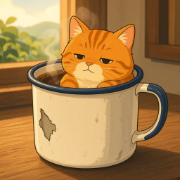
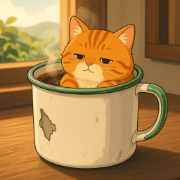
接凱文高腳椅與新 App 圖示；記錄作者決定：杯子白底綠邊、短名稱夢想咖啡店

Changed region(s): [[0.1389, 0.3333, 0.8056, 0.5278], [0.8056, 0.4444, 0.9444, 0.7778], [0.3056, 0.3333, 0.3611, 0.3611]]

diff --git a/src/art.js b/src/art.js
@@ -48,6 +48,10 @@ const ART_SPEC = {
   char_deshu_stand: { h: 1.67 }, char_deshu_brew: { h: 1.67 }, char_deshu_serve: { h: 1.67, cup: [-0.14, 1.03] },
   char_deshu_smile: { h: 1.67 }, char_deshu_thermo: { h: 1.67 }, char_deshu_sit: { h: 1.3 },
   char_kevin_stand: { h: 1.61 }, char_kevin_bar: { h: 1.61 }, char_kevin_sit: { h: 1.28, ax: 0.78, hip: 0.6 },
+  // 美術評分修正 d2：凱文坐在吧台高腳椅上（圖裡自己畫了高腳椅，和 stool.webp 同視角）。底邊是最前面那支椅腳，
+  // 椅面中心（臀部壓著的地方，原圖約 x 670、y 1105）到地面照 stool.webp 的 0.66 公尺，換算整張畫到的高度約 1.41 公尺；
+  // ax 對到椅面中心，紙片原點就是高腳椅的位置（和原本在他底下畫一張高腳椅時一樣）
+  char_kevin_barstool: { h: 1.41, ax: 0.654 },
   char_yuan_sit: { h: 1.22, ax: 0.8, hip: 0.63 }, char_yuan_stand: { h: 1.56 },
   char_zhe_stand: { h: 1.62 }, char_zhe_wet: { h: 1.62 },
   char_grandpa_stand: { h: 1.5 }, char_grandpa_sit: { h: 1.2 },
@@ -667,11 +671,11 @@ function drawDeshu(pose) {
   return c;
 }
 
-// 那個舊的琺瑯杯：白底、深藍杯緣，有一點掉漆（x, y 是杯子左上角）
+// 那個舊的琺瑯杯：白底、綠杯緣（Q59：和 prop_cup 一樣白杯綠邊），有一點掉漆（x, y 是杯子左上角）
 function enamelCup(g, x, y) {
   rr(g, x, y, 0.13, 0.12, 0.02); g.fillStyle = '#f4f2ec'; g.fill(); outline(g, 0.012);
-  g.fillStyle = '#23406e'; g.fillRect(x + 0.005, y, 0.12, 0.018);
-  g.beginPath(); g.arc(x + 0.135, y + 0.06, 0.03, -1.3, 1.3); g.strokeStyle = '#23406e'; g.lineWidth = 0.014; g.stroke();
+  g.fillStyle = '#3d6b4f'; g.fillRect(x + 0.005, y, 0.12, 0.018);
+  g.beginPath(); g.arc(x + 0.135, y + 0.06, 0.03, -1.3, 1.3); g.strokeStyle = '#3d6b4f'; g.lineWidth = 0.014; g.stroke();
   g.fillStyle = '#4a4440'; ell(g, x + 0.03, y + 0.09, 0.008, 0.006); g.fill(); // 掉漆的一小塊
 }
 
@@ -1424,9 +1428,11 @@ function drawZhe(pose) {
 // 'shirt'（來面試那天，穿著一件燙過的襯衫，站著）、'apron'（當了店長，繫著圍裙，站著）
 // 手繪圖：sit（坐著開筆電、戴耳機；闔上筆電那一下也用它）、stand（走路、面試那天；沒帶筆電的日子 free 與躲到角落 hide
 // 也用站著的，因為坐著的圖一定開著筆電，和「以後都不用開會了」對不上）、bar（繫圍裙：當了店長）。
-// seat 是 main.js 依他在哪裡決定的（'stool' 吧台的高腳椅、其他 'chair'）：坐著的畫在他底下；free 在吧台時，高腳椅畫在他旁邊
+// seat 是 main.js 依他在哪裡決定的（'stool' 吧台的高腳椅、其他 'chair'）：坐著的畫在他底下；free 在吧台時，高腳椅畫在他旁邊。
+// 美術評分修正 d2：坐在吧台高腳椅上有自己的圖（char_kevin_barstool，高腳椅畫在圖裡）；沒有載到就照舊在坐姿底下畫一張
 export function kevin(pose = 'sit', seat = 'chair') {
   const name = pose === 'sit' || pose === 'closed' ? 'sit' : pose === 'apron' ? 'bar' : 'stand';
+  if (name === 'sit' && seat === 'stool') { const b = art('char_kevin_barstool'); if (b) return b; }
   return art(`char_kevin_${name}`, name === 'sit' || pose === 'free' ? seat : null) || drawKevin(pose);
 }
 function drawKevin(pose) {

diff --git a/src/main.js b/src/main.js
@@ -433,8 +433,8 @@ const M = {
   grounds: new THREE.MeshLambertMaterial({ color: '#6b4428' }),
   water: new THREE.MeshBasicMaterial({ color: '#d9eef5', transparent: true, opacity: 0.7 }),
   longan: new THREE.MeshLambertMaterial({ color: '#7a4120' }),
-  enamel: new THREE.MeshLambertMaterial({ color: '#f4f2ec' }), // 那個舊的琺瑯杯：白底、深藍杯緣
-  navy: new THREE.MeshLambertMaterial({ color: '#23406e' }),
+  enamel: new THREE.MeshLambertMaterial({ color: '#f4f2ec' }), // 那個舊的琺瑯杯：白底、綠杯緣（Q59：統一成 prop_cup 的白杯綠邊）
+  enamelRim: new THREE.MeshLambertMaterial({ color: '#3d6b4f' }),
 };
 const cyl = (rt, rb, h, mat, seg = 24, open = false) => new THREE.Mesh(new THREE.CylinderGeometry(rt, rb, h, seg, 1, open), mat);
 
@@ -468,7 +468,7 @@ const CUP_H = 0.07 * CUP_SCALE;
 // kind：'hot'（手沖）、'cocoa'（德叔給予安的熱可可）、'iced'（凱文的冰美式）、'enamel'（最後一晚，德叔用那個琺瑯杯）；
 // dish：旁邊放一小碟窯烤龍眼乾
 // 美術評分修正 d：熱的杯子（手沖、熱可可、最後一晚的琺瑯杯）都用手繪的 prop_cup（白底綠邊、裝著咖啡），一直面向鏡頭；
-// 沒有載到時用 A.cup() 的 Canvas 杯子（最後一晚的琺瑯杯照舊是立體的藍邊杯，和平常的杯子分得出來）。凱文的冰美式照舊是立體的玻璃杯
+// 沒有載到時用 A.cup() 的 Canvas 杯子（最後一晚的琺瑯杯照舊是立體的杯子，和平常的杯子分得出來；杯緣和 prop_cup 一樣是綠的，Q59）。凱文的冰美式照舊是立體的玻璃杯
 const cupImg = A.cup();
 const cupArt = A.artLoaded('prop_cup');
 const cupMat = new THREE.SpriteMaterial({ map: A.tex(cupImg), alphaTest: 0.35, color: '#f2ece4' }); // 每個杯子共用；不受光照，夜裡由 applyLight() 調暗
@@ -492,8 +492,8 @@ function makeCup(kind = 'hot', dish = false) {
   }
   if (kind === 'enamel') {
     const body = cyl(0.04, 0.04, 0.075, M.enamel); body.position.y = 0.0375;
-    const rim = cyl(0.0415, 0.0415, 0.01, M.navy, 24, true); rim.position.y = 0.072;
-    const handle = new THREE.Mesh(new THREE.TorusGeometry(0.02, 0.005, 8, 16), M.navy);
+    const rim = cyl(0.0415, 0.0415, 0.01, M.enamelRim, 24, true); rim.position.y = 0.072;
+    const handle = new THREE.Mesh(new THREE.TorusGeometry(0.02, 0.005, 8, 16), M.enamelRim);
     handle.position.set(0.05, 0.04, 0);
     const liquid = cyl(0.037, 0.037, 0.004, M.coffee); liquid.position.y = 0.07; liquid.visible = false;
     g.add(body, rim, handle, liquid);

diff --git a/index.html b/index.html
@@ -9,7 +9,7 @@
 <link rel="apple-touch-icon" sizes="180x180" href="assets/art/app_icon_180.png">
 <meta name="apple-mobile-web-app-capable" content="yes">
 <meta name="mobile-web-app-capable" content="yes">
-<!-- 【待定】App 短名稱「夢想咖啡店」（manifest.webmanifest 的 short_name 也是）是自行補寫的，見計畫檔 Q62 -->
+<!-- App 短名稱「夢想咖啡店」（manifest.webmanifest 的 short_name 也是）：作者已確認（2026-11-02，計畫檔 Q62） -->
 <meta name="apple-mobile-web-app-title" content="夢想咖啡店">
 <link rel="apple-touch-startup-image" media="(device-width: 390px) and (device-height: 844px) and (-webkit-device-pixel-ratio: 3) and (orientation: portrait)" href="assets/art/splash_1170x2532.webp">
 <title>我單方面辭退老闆後，開了一間夢想中的咖啡店｜試玩版</title>

diff --git a/AGENTS.md b/AGENTS.md
@@ -36,7 +36,7 @@
 - `index.html`：介面與 importmap，不需要建置步驟。
 - `src/main.js`：場景、座位、德叔的沖煮動畫、貓、佈置（倉庫、型錄、試擺）、溫度任務的演出、記事本、觸控；開場推門進店後的段落（第三幕後半、第四幕第一杯）、營業日誌與老先生的信的畫面、讀信後擦琺瑯杯的鏡頭；三位熟客在店裡的一天（誰什麼時候走進來、照 `story.js` 的步驟演出里程碑、畫面下方的選項）、店裡的天氣（雨天、颱風夜）與 WebAudio 合成的風雨聲；龍眼（睡在 `cat.js` 決定的地方、跳上老闆剛坐過的椅子、被點太多次就走開）、打烊後模式（客人離開、最後一杯、一盞一盞關燈、咖啡日記、德叔擦琺瑯杯）、一次客人模式（推門、點單、聽熟客聊天）；第一站的結尾（照 `farewell.js` 的步驟演出徵店長與告別、門口的徵才啟事、交鑰匙、最後一晚的琺瑯杯、離開東山的早上與第二封信、你的咖啡地圖），以及之後的常態店（吧台後面換成凱文，從門口推門進來）；階段 7 的打磨：紙片俯瞰時往後仰、人物繞開擺飾、夜裡吧台補光、下班後的夜裡光線、保底雨天、手機鍵盤、自動降解析度，以及把 `audio.js` 接到每個動作（沖煮各段、門鈴、關燈、颱風的雷）。美術評分修正 a：泡泡與座位標籤的版面（`layoutOverlays()`：避開量出來的頂部介面、彼此不重疊）、俯瞰鏡頭依可用高度縮放（`fitOverview()`）、對話時鏡頭轉向說話的人並推近加暗角、前景擋臉的人淡掉（`lookToward()`／`updateOcclusion()`）。美術評分修正 b：彈窗打開時 `#app.modal` 收起場景上的標籤與按鈕列、選項上面的問句（`#ask`）與漸層（`#shade`）、溫度膠囊的顏色（`tempColor()`）、桌機兩側的模糊店內畫面（`paintBackdrop()`）、對話等鏡頭到位才說（`camSettled()`）。美術評分修正 c：座位各自的鏡頭與視角（`SEATS[].fov`）、坐下時桌上的暖光（`seatLamp`）、俯瞰把德叔／吧台／擺飾外框＋24px 放進畫面並左右置中（`FIT_BAR`、`drawnHalf()`）、俯瞰泡泡避開吧台（`barHull()`）、對話依距離推近（`focusFov`）與前景較大的人淡出、桌機字級（`index.html` 的 `@media (min-aspect-ratio: 3/5)`）。art2b：桌機的場景欄加寬到高度的 2/3、俯瞰仰角最低到 44°（`OVER_DESK_MIN`，挑德叔最高的角度）；吧台前的人，德叔在吧台裡錯開到兩人畫出來不重疊的位置（`behindBarZ()`）；對話時前景的擺飾與椅子也會淡出（`occProps()`／`screenRect()`）。美術評分修正 d：坐窗邊座時龍眼睡到窗台上（`catToSill()`）；德叔的沖煮圖已經拿著手沖器具，有這張圖時吧台上的立體器具收起來、沖煮步驟改成德叔的小動作（`brewInArt()`，凱文顧店與沒有圖時照舊用 `brewWithKit()`），看德叔沖的鏡頭依有沒有沖煮圖分開（`closeView()`）；俯瞰時不靠牆的紙片轉到和畫面平行、剩下的高度往上拉長（`faceCamera()`，高度倍率另記在 `userData.squash`）；熱的杯子都用 `prop_cup`（`cupSprite()`）。
 - `src/opening.js`：開場第一～三幕的 DOM 畫面（16:49 的辦公室、標題、信箱與律師信、175 縣道），只在新存檔播放，每一幕可略過。
-- `src/art.js`：所有美術。接正式美術第一批起，人物（德叔、予安、阿哲、凱文、阿公）與龍眼改用 `assets/art/` 的手繪 webp：模組用 top-level await 先載入（`ART_SPEC` 記每張圖畫到的高度幾公尺、腳底／臀部在哪），裁切、手機縮成 1024 高、補邊色後當材質；任何一張載入失敗就退回原本的 Canvas 繪圖（`drawDeshu()` 等）。接正式美術第二批（art2a）起，店內空間也用手繪圖（`ROOM_SPEC`：每張代表幾公尺）：窗景六張＋窗框、地板／石灰牆／紅磚腰牆／天花板／木頭檯面／吧台正面的無縫材質（`main.js` 依公尺設定 repeat）、吧台後的層架（黑板的字由程式寫）、溫度計木框（玻璃管與水銀由程式畫）、吊燈、所有家具與小道具；透明的家具依透明度裁掉留白、照每公尺像素不拉伸、底邊接地，同樣載入失敗就退回 Canvas。坐姿的圖沒有椅子：手繪的椅子與高腳椅（和人物一樣 3/4）畫進予安與凱文的圖裡、椅面對準臀部（`seatUnder()`），予安坐著時店裡那張空椅子（`main.js` 的 `yuanChair`）收起來。接正式美術第二批（art2b）起，開場、地圖與介面也用手繪圖：這些圖不進 3D 場景，下載後先解碼確認、留下 object URL（`artUrl()`），`mailboxes()`／`countyRoad()`／`coffeeMap()` 回傳 DOM 元素（有圖是 `<img>` 或 SVG，路牌的 175、地圖的東山與舞鶴標記由程式疊上；沒有圖是 Canvas）；辭呈與律師信背景、信紙紋理、泡泡九宮格外框由 `main.js` 設成 CSS 變數（`--art-office`／`--art-paper`／`--art-bubble`，沒有設就是原本的 CSS）；`ui_icons.svg` 的四個 `<symbol>`（`iconSymbols()`）放進頁面給選單、快轉、溫度、開燈用，沒有載到就照舊是文字；老先生的信封（`envelope()`）是 `ROOM_SPEC` 的手繪圖。啟動畫面（`#splash`）與 `manifest.webmanifest` 的圖示在 `index.html`，縮好的 PNG 圖示用 `node tests/make-icons.mjs` 產生。人物與桌上小東西用較高的解析度（`HI`，每公尺 400～600 像素），每張圖記在 `c.ppm`，`main.js` 用 `A.ppmOf()` 把像素換回公尺（換成圖檔時沒有這個欄位就用預設的 200）。
+- `src/art.js`：所有美術。接正式美術第一批起，人物（德叔、予安、阿哲、凱文、阿公）與龍眼改用 `assets/art/` 的手繪 webp：模組用 top-level await 先載入（`ART_SPEC` 記每張圖畫到的高度幾公尺、腳底／臀部在哪），裁切、手機縮成 1024 高、補邊色後當材質；任何一張載入失敗就退回原本的 Canvas 繪圖（`drawDeshu()` 等）。接正式美術第二批（art2a）起，店內空間也用手繪圖（`ROOM_SPEC`：每張代表幾公尺）：窗景六張＋窗框、地板／石灰牆／紅磚腰牆／天花板／木頭檯面／吧台正面的無縫材質（`main.js` 依公尺設定 repeat）、吧台後的層架（黑板的字由程式寫）、溫度計木框（玻璃管與水銀由程式畫）、吊燈、所有家具與小道具；透明的家具依透明度裁掉留白、照每公尺像素不拉伸、底邊接地，同樣載入失敗就退回 Canvas。坐姿的圖沒有椅子：手繪的椅子與高腳椅（和人物一樣 3/4）畫進予安與凱文的圖裡、椅面對準臀部（`seatUnder()`），予安坐著時店裡那張空椅子（`main.js` 的 `yuanChair`）收起來。凱文坐在吧台高腳椅上另有一張連高腳椅一起畫的圖（`char_kevin_barstool`，美術評分修正 d 補充），沒有載到才用坐姿底下合成高腳椅。接正式美術第二批（art2b）起，開場、地圖與介面也用手繪圖：這些圖不進 3D 場景，下載後先解碼確認、留下 object URL（`artUrl()`），`mailboxes()`／`countyRoad()`／`coffeeMap()` 回傳 DOM 元素（有圖是 `<img>` 或 SVG，路牌的 175、地圖的東山與舞鶴標記由程式疊上；沒有圖是 Canvas）；辭呈與律師信背景、信紙紋理、泡泡九宮格外框由 `main.js` 設成 CSS 變數（`--art-office`／`--art-paper`／`--art-bubble`，沒有設就是原本的 CSS）；`ui_icons.svg` 的四個 `<symbol>`（`iconSymbols()`）放進頁面給選單、快轉、溫度、開燈用，沒有載到就照舊是文字；老先生的信封（`envelope()`）是 `ROOM_SPEC` 的手繪圖。啟動畫面（`#splash`）與 `manifest.webmanifest` 的圖示在 `index.html`，縮好的 PNG 圖示用 `node tests/make-icons.mjs` 產生。人物與桌上小東西用較高的解析度（`HI`，每公尺 400～600 像素），每張圖記在 `c.ppm`，`main.js` 用 `A.ppmOf()` 把像素換回公尺（換成圖檔時沒有這個欄位就用預設的 200）。
 - `src/audio.js`：所有聲音與音樂（WebAudio 即時合成，沒有音檔）：慵懶的電鋼琴背景音樂（打烊後換夜曲）、磨豆、注水、倒杯、杯子上桌、門鈴、關燈、窗外機車、雨與颱風；不依賴 Three.js 與 DOM，沒有 WebAudio 時全部是空動作。之後換正式音樂只要改這裡。
 - 純邏輯模組（不依賴 Three.js 與 DOM，用 `node --test` 測）：`src/save.js` 存檔（localStorage `dream-cafe.save`，帶版本號，存不了時照常遊戲）、`src/clock.js` 遊戲時間（開店第 N 天，本地日曆日）、`src/tasks.js` 劇本 20 個溫度任務（溫度由已完成任務算出）、`src/catalog.js` 德叔的型錄與結帳（基金餘額＝帳本加總）、`src/letters.js` 辭呈結尾、律師信、老先生的信與交信條件、`src/journal.js` 德叔的營業日誌（離線結算，每天 2～4 條，熟客里程碑由 `story(day)` 介面接入）、`src/weather.js` 依季節的天氣（與「在雨天坐窗邊」的保底雨天）、`src/story.js` 三位熟客的里程碑引擎（18 個里程碑的條件、日誌句、「想等老闆在」的提示、演出步驟與台詞、菜單；老闆不在的日子由 `settleThrough()` 結算，在場時由 `planToday()`／`liveNext()` 決定誰來、演什麼）、`src/cat.js` 龍眼（依擺飾決定睡覺的地方、日誌換位子的句子、給不給摸、跳不跳上椅子）、`src/afterhours.js` 打烊後與一次客人模式（台詞、打烊狀態與關燈、「今天的一杯」咖啡日記、客人模式的邀請條件與依擺飾挑的對話）、`src/farewell.js` 第一站的結尾（徵店長與告別七段的條件、台詞與演出步驟、三張徵才啟事、德叔叫名字的那句、離開東山的早上、咖啡地圖的文字、常態店裡凱文的台詞與日誌句）。
 - `vendor/three.module.min.js`：Three.js 0.187 打包檔。

diff --git a/docs/第一版開發計畫.md b/docs/第一版開發計畫.md
@@ -21,6 +21,7 @@
 - [x] 接正式美術第二批（art2a）：店內空間、家具與小道具（46 張；開場場景、地圖、UI 留給下一輪）（2026-11-02）
 - [x] 接正式美術第二批（art2b）：開場、地圖、介面（剩下的 10 個檔案＋縮好的圖示），修上一輪評分不通過的 3 張（桌機俯瞰、颱風夜、桌機客人對話）（2026-11-02）
 - [x] 美術評分修正 d：座位焦點（phone-4，唯一不通過）、沖煮器具不重複、俯瞰家具朝向、正式杯子、桌機俯瞰字級（2026-11-02）
+- [x] 美術評分修正 d 補充：記錄作者決定（Q59、Q62、凱文坐高腳椅、Q60 暫維持），接凱文坐吧台高腳椅的圖與重畫的 App 圖示（2026-11-02）
 
 ## 一、目前原型對照第一版範圍
 
@@ -492,6 +493,19 @@ Claude 美術評審在線上實測截圖與全流程截圖上評分（26 張中 
   - 工作中途（13:55）畫師的新圖放進了 `assets/art/`（`char_kevin_barstool.webp`、重畫的 `app_icon_1024.webp`）。我把 `app_icon_1024.webp` 誤當成被測試改壞的原圖，用 `git checkout` 還原成舊版，蓋掉了新圖（14:36 已經有人重新放回來）。這兩個檔案都沒有加進這一輪的 commit，留給下一輪接上。
   - 全流程的「06-first-cup-closeup」在 20 倍速下拍到的是德叔已經端走、鏡頭正在移回座位（沖煮約 1 秒，鏡頭移動是 1.2 秒實際時間，art2 那一張也一樣）；這一輪的特寫用自己的截圖確認（`d2-*-closeup-*`），沒有改全流程腳本。
 
+#### 作者決定（2026-11-02）
+
+作者回覆了修正 d 留下的幾個問題，並交了兩張新圖（13:55 放進 `assets/art/` 的那兩張）：
+
+- [x] 1. Q59：琺瑯杯統一成「白杯綠邊」，維持現在的 `prop_cup`。畫師把 `app_icon_1024.webp` 重畫成白杯綠邊，用 `node tests/make-icons.mjs` 重新產生 `app_icon_512.png`、`app_icon_192.png`、`app_icon_180.png`（原圖 webp 沒有動）。圖沒有載到時的退路也跟著統一：最後一晚的立體琺瑯杯（`main.js` 的 `M.enamelRim`）與 Canvas 德叔手上的琺瑯杯（`art.js` 的 `enamelCup()`）杯緣與把手從深藍改成綠色（`#3d6b4f`，看 `prop_cup` 抓的近似色）。
+- [x] 2. Q62：App 短名稱確定為「夢想咖啡店」。`index.html` 的註解拿掉【待定】、改成「作者已確認」；`manifest.webmanifest` 不用改。【待定】文本清單那一列只留 manifest 的說明文字（說明是自行補寫的，作者這次沒有提到）。
+- [x] 3. 凱文坐吧台高腳椅：確定，圖已交（`char_kevin_barstool.webp`，1024×2048，3/4，和 `stool.webp` 同視角，高腳椅畫在圖裡）。接法：
+  - `art.js` 的 `ART_SPEC` 新增 `char_kevin_barstool: { h: 1.41, ax: 0.654 }`；`kevin()` 在坐姿（`sit`／`closed`）＋吧台高腳椅（`seat === 'stool'`）時用這張，沒有載到就照舊用 `char_kevin_sit` 底下合成一張 `stool`（`seatUnder()`），再沒有就是 Canvas。
+  - 對齊：圖的底邊是最前面那支椅腳（量出來畫到的範圍是 x 86～938、y 82～2004）。椅面中心（臀部壓著的地方）約在原圖 x 670、y 1105；`stool.webp` 椅面到地面是 0.66 公尺（坐點 y 205 到底邊 y 1194，每公尺 1500 像素），照這個換算這張畫到的高度約 1.41 公尺（每公尺約 1364 像素；`char_kevin_sit` 是約 1320，人的大小差不多）。`ax` 對到椅面中心，紙片原點就是高腳椅的位置，和原本「坐姿底下合成高腳椅」時一樣，`main.js` 不用改（`stoolFar` 照舊在他坐下時收起來）。截圖看：他的高腳椅和旁邊空著的 `stoolMid` 一樣高，座面窄一點（畫師說過）。
+  - 腳（已確認，截圖）：**看得到**。凱文坐在吧台外側（x 1.3），吧台在他身後（從俯瞰、三個座位看過去都是），檯面擋不到他的腳；右腳在腳踏環前緣、左腳懸在外面，看起來像坐高腳椅時腳隨意垂著，沒有穿幫的感覺。要讓吧台遮住只能把他移到吧台後面，那就不是客人的位子了，所以沒有做。從吧台座轉頭看他時，前面那張空的 `stoolMid` 會擋到他的腳一點。
+  - 截圖：`shots/fix-d2/`（390×844）：`a-overview.png`、`overview-kevin-zoom.png`（俯瞰）、`seat-吧台座-看凱文.png`（吧台座往左轉看他）、`a-seat-角落沙發.png`（角落沙發，凱文在畫面左邊）；`a-seat-吧台座.png`、`a-seat-窗邊座.png` 是兩個座位的預設視角，凱文不在畫面裡。全流程在 `shots/fix-d2/run/`。
+- [ ] 4. Q60（桌機場景欄加寬）：作者還沒回答，暫維持加寬（D154），留在「待作者決定」。
+
 ## 三、自行做的決定
 
 企劃沒寫清楚、依企劃與劇本精神先做的選擇；作者可以推翻。
@@ -724,10 +738,10 @@ Claude 美術評審在線上實測截圖與全流程截圖上評分（26 張中 
 | Q56 | 地板、吧台檯面、桌面在白天的光照下偏亮偏橘，木頭比人物搶眼。要壓暗一點（材質乘一個顏色），還是請畫師調？ | 先照原圖 |
 | Q57 | 手沖組的圖放在吧台裡側當擺設（D148）可以嗎？還是希望德叔沖煮時直接用這組圖（會失去溫杯、磨豆、注水的動作）？ | 擺設 |
 | Q58 | 啟動要下載約 7.8MB 的圖。要不要先做「窗景用到時才載」或給慢網路一個載入畫面？ | art2b 起啟動畫面兼載入畫面（D157）；「窗景用到時才載」還沒做；這一輪多了約 1.2MB（開場、地圖、介面與啟動畫面） |
-| Q59 | App 圖示（`app_icon_1024`）的琺瑯杯是藍邊，`prop_cup` 是綠邊（Q55）。琺瑯杯要統一成哪一種？ | 照畫師的圖各用各的 |
-| Q60 | 桌機的場景欄加寬到高度的 2/3（D154）之後，桌機看到的店比手機寬，座位視角也多看到兩側。可以嗎？還是希望桌機維持手機的直式比例、只把俯瞰推近？ | 加寬 |
+| Q59 | App 圖示（`app_icon_1024`）的琺瑯杯是藍邊，`prop_cup` 是綠邊（Q55）。琺瑯杯要統一成哪一種？ | **已決定（2026-11-02）**：統一成白杯綠邊，維持 `prop_cup`；畫師已重畫 App 圖示，PNG 已重產；沒有圖時的立體杯與 Canvas 杯也改成綠邊 |
+| Q60 | 桌機的場景欄加寬到高度的 2/3（D154）之後，桌機看到的店比手機寬，座位視角也多看到兩側。可以嗎？還是希望桌機維持手機的直式比例、只把俯瞰推近？ | 暫維持加寬（作者還沒回答，2026-11-02） |
 | Q61 | iOS 的啟動畫面用 webp（`splash_1170x2532.webp`），而且只對 390×844 @3x 的 iPhone 有效。iOS 是否接受 webp 的 `apple-touch-startup-image` 目前無法確定，需要實測；要不要請畫師另外給 PNG 與其他尺寸？ | 先用 webp；遊戲裡的啟動畫面（`#splash`）每台都有 |
-| Q62 | 主畫面的 App 短名稱暫定「夢想咖啡店」（manifest 的 `short_name`，iOS 的 `apple-mobile-web-app-title`）。要用什麼名字？ | 夢想咖啡店 |
+| Q62 | 主畫面的 App 短名稱暫定「夢想咖啡店」（manifest 的 `short_name`，iOS 的 `apple-mobile-web-app-title`）。要用什麼名字？ | **已決定（2026-11-02）**：「夢想咖啡店」 |
 | Q63 | 修正 d 起每一杯熱咖啡都用 `prop_cup`（評審建議「統一用琺瑯杯」）。劇本裡那個琺瑯杯是老先生店裡留下的最後一個杯子、德叔「從不讓別人用」，現在平常的杯子和它長得一樣。要請畫師另外畫一張平常的咖啡杯（例如白瓷杯＋杯盤，透明 webp，和 `prop_cup` 同規格），讓琺瑯杯只在最後一晚出現嗎？ | 先照使用者指定都用 `prop_cup` |
 | Q64 | 坐窗邊座時龍眼會「跟過去」睡在窗台上（D159）。這樣會不會讓龍眼像在跟著老闆？要不要改成只有他今天本來就睡窗台下（`sill`）時才上窗台，其他時候鏡頭轉向吧台？ | 每次坐窗邊座都上窗台 |
 
@@ -802,7 +816,7 @@ Claude 美術評審在線上實測截圖與全流程截圖上評分（26 張中 
 | `src/farewell.js`，`nameLine()`、`lastNight`（第 7 段） | 德叔叫名字「（名字），這一杯，是你的。」／沒留名字「這一杯，是你的。……謝謝你，老闆。」、最後「明天早上，出發。」（口頭禪是劇本原文） |
 | `src/farewell.js`，`DEPART` | 離開東山的早上：德叔「早。行李我收好了。」；讀完信後凱文「路上小心。德叔，老闆就交給你了。」、德叔「嗯。」「走吧。」 |
 | `src/letters.js`，`LETTERS[1].give` | 交第二封信：「這封，他交代離開東山的早上給你。」（信的內容是劇本原文） |
-| `manifest.webmanifest`、`index.html` | App 短名稱「夢想咖啡店」與 manifest 的說明「下班後回到自己的咖啡店：台灣小資族的療癒放置遊戲（試玩版）」（Q62） |
+| `manifest.webmanifest` | manifest 的說明「下班後回到自己的咖啡店：台灣小資族的療癒放置遊戲（試玩版）」（App 短名稱「夢想咖啡店」作者已確認，Q62） |
 | `src/farewell.js`，`MAP` | 咖啡地圖的「第一站，完。」「一棵很老的咖啡樹，在等。」、按鈕「回東山坐坐」、「第一間店・37°C・店長 凱文」 |
 | `src/farewell.js`，`KEEPER` | 常態店裡凱文的台詞：第一次打招呼「老闆，歡迎回來。」「……德叔說，要這樣講。」、三句打招呼、沖煮時「好，我來。德叔說，不要急。」、端上「東山的豆。德叔說，就是窗外那片山。」、點他的五句、打烊後的三句 |
 | `src/farewell.js`，`KEEPER_JOURNAL` | 凱文寫的營業日誌 6 句（「今天沖了十一杯。有一杯，德叔大概會說水太燙。」等） |

diff --git a/docs/待定文本審稿.md b/docs/待定文本審稿.md
@@ -186,22 +186,22 @@
 
 ## 店裡的演出與介面（`src/main.js`，10 處）
 
-- L1180：「阿哲的豆。他說寫大一點，我就寫大一點。」
-- L1181：「配阿哲阿公的龍眼乾。窯烤的。」
-- L1401：（文字在附近幾行）　— 說明：）
-- L1695：（文字在附近幾行）　— 說明：）
-- L1769：「德叔把一封信放在吧台上」
-- L1804：（下面這一段）　— 說明：第一次進佈置模式、倉庫裡還有東西時德叔的提醒（看完開場第四幕的人已經聽過送擺飾那句，不會再說）
-  - L1805：「倉庫裡有三件東西，是我先替老闆準備的。想放哪就放哪。」
-- L1829：（下面這一段）　— 說明：基金還沒撥到那裡時，德叔把試擺的東西退回型錄（不說「不夠」「不划算」）
-  - L1830：「${itemById(r.returned[0]).name}${r.returned.length > 1 ? '那幾件' : ''}，我先放回型錄。基金再撥一點下來，就帶回來。」
-  - L1831：「這個放這裡，從吧台看過去剛好。」
-- L2066：（文字在附近幾行）　— 說明：記事本還是空的時候的一句話
-- L2326：（下面這一段）　— 說明：送三件初始擺飾時德叔說的話（劇本只寫「送三件初始擺飾」）
-  - L2327：「倉庫裡有三件，是我替老闆準備的開店禮。」
-- L2369：（下面這一段）　— 說明：日誌抬頭的一句
-  - L2370：「老闆不在的這幾天，店裡的事。」 「老闆不在的時候，店裡的事。」
-  - L2380：「${d.date}・第 ${d.day} 天${d.rain ? '・雨' : ''}」
+- L1139：「阿哲的豆。他說寫大一點，我就寫大一點。」
+- L1140：「配阿哲阿公的龍眼乾。窯烤的。」
+- L1477：（文字在附近幾行）　— 說明：）
+- L1809：（文字在附近幾行）　— 說明：）
+- L1883：「德叔把一封信放在吧台上」
+- L1918：（下面這一段）　— 說明：第一次進佈置模式、倉庫裡還有東西時德叔的提醒（看完開場第四幕的人已經聽過送擺飾那句，不會再說）
+  - L1919：「倉庫裡有三件東西，是我先替老闆準備的。想放哪就放哪。」
+- L1943：（下面這一段）　— 說明：基金還沒撥到那裡時，德叔把試擺的東西退回型錄（不說「不夠」「不划算」）
+  - L1944：「${itemById(r.returned[0]).name}${r.returned.length > 1 ? '那幾件' : ''}，我先放回型錄。基金再撥一點下來，就帶回來。」
+  - L1945：「這個放這裡，從吧台看過去剛好。」
+- L2180：（文字在附近幾行）　— 說明：記事本還是空的時候的一句話
+- L2440：（下面這一段）　— 說明：送三件初始擺飾時德叔說的話（劇本只寫「送三件初始擺飾」）
+  - L2441：「倉庫裡有三件，是我替老闆準備的開店禮。」
+- L2483：（下面這一段）　— 說明：日誌抬頭的一句
+  - L2484：「老闆不在的這幾天，店裡的事。」 「老闆不在的時候，店裡的事。」
+  - L2494：「${d.date}・第 ${d.day} 天${d.rain ? '・雨' : ''}」
 
 ## 開場第一～三幕（`src/opening.js`，3 處）
 
